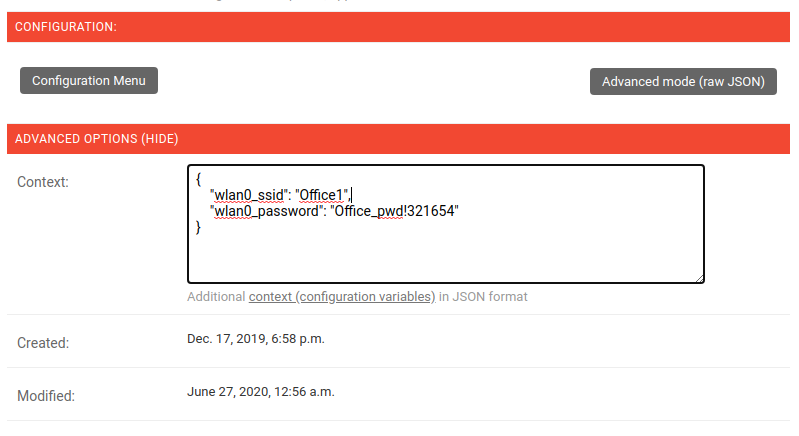
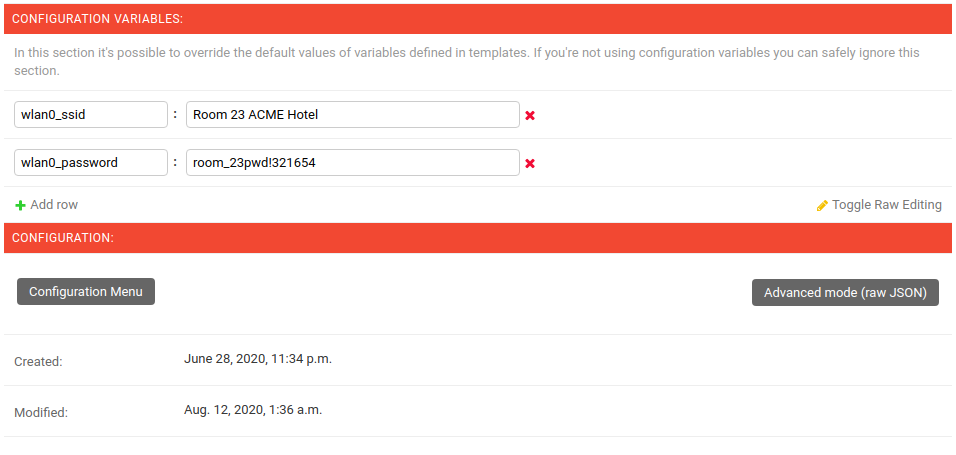
[feature] Added flat JSON widget for configuration variables

diff --git a/openwisp_controller/config/admin.py b/openwisp_controller/config/admin.py
@@ -17,6 +17,7 @@ from django.template.response import TemplateResponse
 from django.templatetags.static import static
 from django.urls import reverse
 from django.utils.translation import ugettext_lazy as _
+from flat_json_widget.widgets import FlatJsonWidget
 from swapper import load_model
 
 from openwisp_controller.config.views import get_default_templates
@@ -318,6 +319,17 @@ class ConfigForm(AlwaysHasChangedMixin, BaseForm):
 
     class Meta(BaseForm.Meta):
         model = Config
+        widgets = {'config': JsonSchemaWidget, 'context': FlatJsonWidget}
+        labels = {
+            'context': _('Configuration Variables'),
+        }
+        help_texts = {
+            'context': _(
+                "In this section it's possible to override the default values of "
+                "variables defined in templates. If you're not using configuration "
+                "variables you can safely ignore this section."
+            ),
+        }
 
 
 class ConfigInline(MultitenantAdminMixin, TimeReadonlyAdminMixin, admin.StackedInline):
@@ -325,11 +337,15 @@ class ConfigInline(MultitenantAdminMixin, TimeReadonlyAdminMixin, admin.StackedI
     form = ConfigForm
     verbose_name_plural = _('Device configuration details')
     readonly_fields = ['status']
-    fieldsets = (
-        (None, {'fields': ('backend', 'status', 'templates', 'config')}),
-        (_('Advanced options'), {'classes': ('collapse',), 'fields': ('context',)}),
-        (None, {'fields': ('created', 'modified')}),
-    )
+    fields = [
+        'backend',
+        'status',
+        'templates',
+        'context',
+        'config',
+        'created',
+        'modified',
+    ]
     change_select_related = ('device',)
     extra = 0
     verbose_name = _('Configuration')
@@ -460,6 +476,17 @@ class CloneOrganizationForm(forms.Form):
 class TemplateForm(BaseForm):
     class Meta(BaseForm.Meta):
         model = Template
+        widgets = {'config': JsonSchemaWidget, 'default_values': FlatJsonWidget}
+        labels = {
+            'default_values': _('Configuration variables'),
+        }
+        help_texts = {
+            'default_values': _(
+                "If you want to use configuration variables in this template, "
+                "define them here along with their default values. The content "
+                "of each variable can be overridden in each device."
+            )
+        }
 
 
 class TemplateAdmin(MultitenantAdminMixin, BaseConfigAdmin):
@@ -482,28 +509,20 @@ class TemplateAdmin(MultitenantAdminMixin, BaseConfigAdmin):
     ]
     search_fields = ['name']
     multitenant_shared_relations = ('vpn',)
-    fieldsets = (
-        (
-            None,
-            {
-                'fields': [
-                    'name',
-                    'organization',
-                    'type',
-                    'backend',
-                    'vpn',
-                    'auto_cert',
-                    'tags',
-                    'default',
-                ]
-            },
-        ),
-        (
-            _('Advanced options'),
-            {'classes': ('collapse',), 'fields': ('default_values',)},
-        ),
-        (None, {'fields': ('config', 'created', 'modified')}),
-    )
+    fields = [
+        'name',
+        'organization',
+        'type',
+        'backend',
+        'vpn',
+        'auto_cert',
+        'tags',
+        'default',
+        'default_values',
+        'config',
+        'created',
+        'modified',
+    ]
 
     def clone_selected_templates(self, request, queryset):
         selectable_orgs = None

diff --git a/openwisp_controller/config/widgets.py b/openwisp_controller/config/widgets.py
@@ -12,10 +12,9 @@ class JsonSchemaWidget(AdminTextareaWidget):
 
     @property
     def media(self):
-        prefix = 'config'
         js = [
-            static('{0}/js/{1}'.format(prefix, f))
-            for f in (
+            static(f'config/js/{path}')
+            for path in (
                 'utils.js',
                 'lib/advanced-mode.js',
                 'lib/tomorrow_night_bright.js',
@@ -25,8 +24,8 @@ class JsonSchemaWidget(AdminTextareaWidget):
         ]
         css = {
             'all': [
-                static('{0}/css/{1}'.format(prefix, f))
-                for f in ('lib/jsonschema-ui.css', 'lib/advanced-mode.css')
+                static(f'config/css/{path}')
+                for path in ('lib/jsonschema-ui.css', 'lib/advanced-mode.css')
             ]
         }
         return forms.Media(js=js, css=css)

diff --git a/tests/openwisp2/sample_config/admin.py b/tests/openwisp2/sample_config/admin.py
@@ -2,5 +2,5 @@ from openwisp_controller.config.admin import DeviceAdmin, TemplateAdmin, VpnAdmi
 
 # Monkey Patching done only for testing purposes
 DeviceAdmin.fields += ['details']
-TemplateAdmin.fieldsets[0][1]['fields'].append('details')
+TemplateAdmin.fields += ['details']
 VpnAdmin.fields += ['details']

diff --git a/tests/openwisp2/settings.py b/tests/openwisp2/settings.py
@@ -48,6 +48,7 @@ INSTALLED_APPS = [
     'sortedm2m',
     'reversion',
     'leaflet',
+    'flat_json_widget',
     # rest framework
     'rest_framework',
     'rest_framework_gis',

diff --git a/README.rst b/README.rst
@@ -679,14 +679,9 @@ Each device gets the following attributes passed as configuration variables:
 User defined device variables
 ~~~~~~~~~~~~~~~~~~~~~~~~~~~~~
 
-In the device configuration section, you can access the context
-field by clicking on "Advanced Options (show)".
-
-.. image:: https://raw.githubusercontent.com/openwisp/openwisp-controller/master/docs/device-advanced.png
-   :alt: advanced options (show)
-
-Then you can define the variables as a key, value dictionary (JSON formatted)
-as shown below.
+In the device configuration section you can find a section named
+"Configuration variables" where it is possible to define the configuration
+variables and their values, as shown in the example below:
 
 .. image:: https://raw.githubusercontent.com/openwisp/openwisp-controller/master/docs/device-context.png
    :alt: context
@@ -706,12 +701,8 @@ This allows to achieve 2 goals:
 These default values will be overridden by the
 `User defined device variables <#user-defined-device-variables>`_.
 
-To do this, click on "Advanced Options (show)" in the edit template page:
-
-.. image:: https://raw.githubusercontent.com/openwisp/openwisp-controller/master/docs/template-advanced.png
-   :alt: advanced options (show)
-
-Then you can define the default values of the variables:
+The default values of variables can be manipulated from the section
+"configuration variables" in the edit template page:
 
 .. image:: https://raw.githubusercontent.com/openwisp/openwisp-controller/master/docs/template-default-values.png
   :alt: default values
